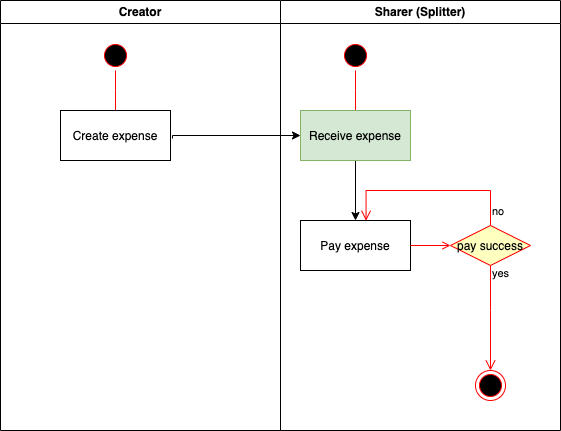
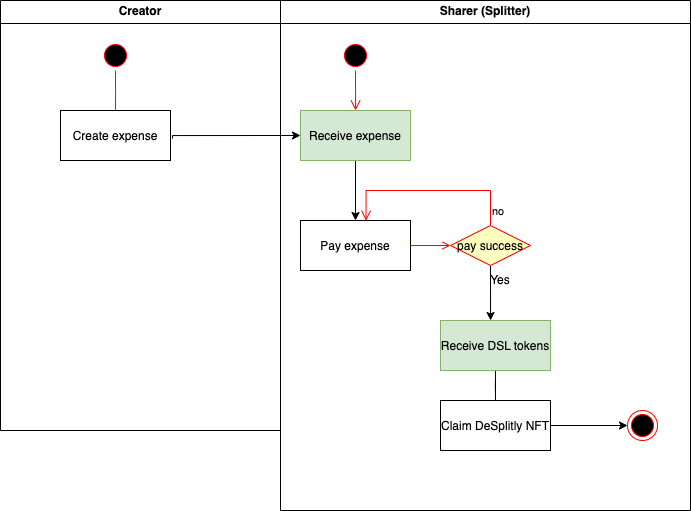
update readme

diff --git a/README.md b/README.md
@@ -1,17 +1,16 @@
 ## DeSplitly Introduction 
 
-DeSplitly is a decentrialized bill splitting. 
-
-You can easily share your bill with your friends on DeSplitly for free
+DeSplitly is a decentralized bill splitting. You can easily share your bill with your friends on DeSplitly to earn DSL tokens and exchange for NFTs.
 
 ![](/diagrams//DeSplitly.png)
 
 ## DeSplitly features 
 
-- Create expense and send it to your friends 
-- Pay an expense 
-- Receive DSL (DeSplitly Token) after a sharer pay back an owned amount of the bill 
-- Use DSL tokens to claim a DeSplitly NFT
+- Create expense and send it to your friends.
+- Update your expenses.
+- Sharer can pay an expense.
+- Receive DSL (DeSplitly Token) after a sharer pay back an owned amount of the bill. 
+- Use DSL tokens to claim a DeSplitly NFT.
 
 ## Sample command lines 
 
@@ -26,11 +25,11 @@ Switch to other user wallet
 
 `::set_tx_sender STNHKEPYEPJ8ET55ZZ0M5A34J0R3N5FM2CMMMAZ6` 
 
-Pay an expense and get DST token reward 
+Pay an expense and get DSL token reward 
 
 `(contract-call? 'ST1PQHQKV0RJXZFY1DGX8MNSNYVE3VGZJSRTPGZGM.desplitly pay-expense "ex1" 'ST1PQHQKV0RJXZFY1DGX8MNSNYVE3VGZJSRTPGZGM)`
 
-Claim DeSplitlt NFT 
+Claim DeSplitly NFT 
 
 `(contract-call? 'ST1PQHQKV0RJXZFY1DGX8MNSNYVE3VGZJSRTPGZGM.dsl-nft mint-with-dsl )`
 
